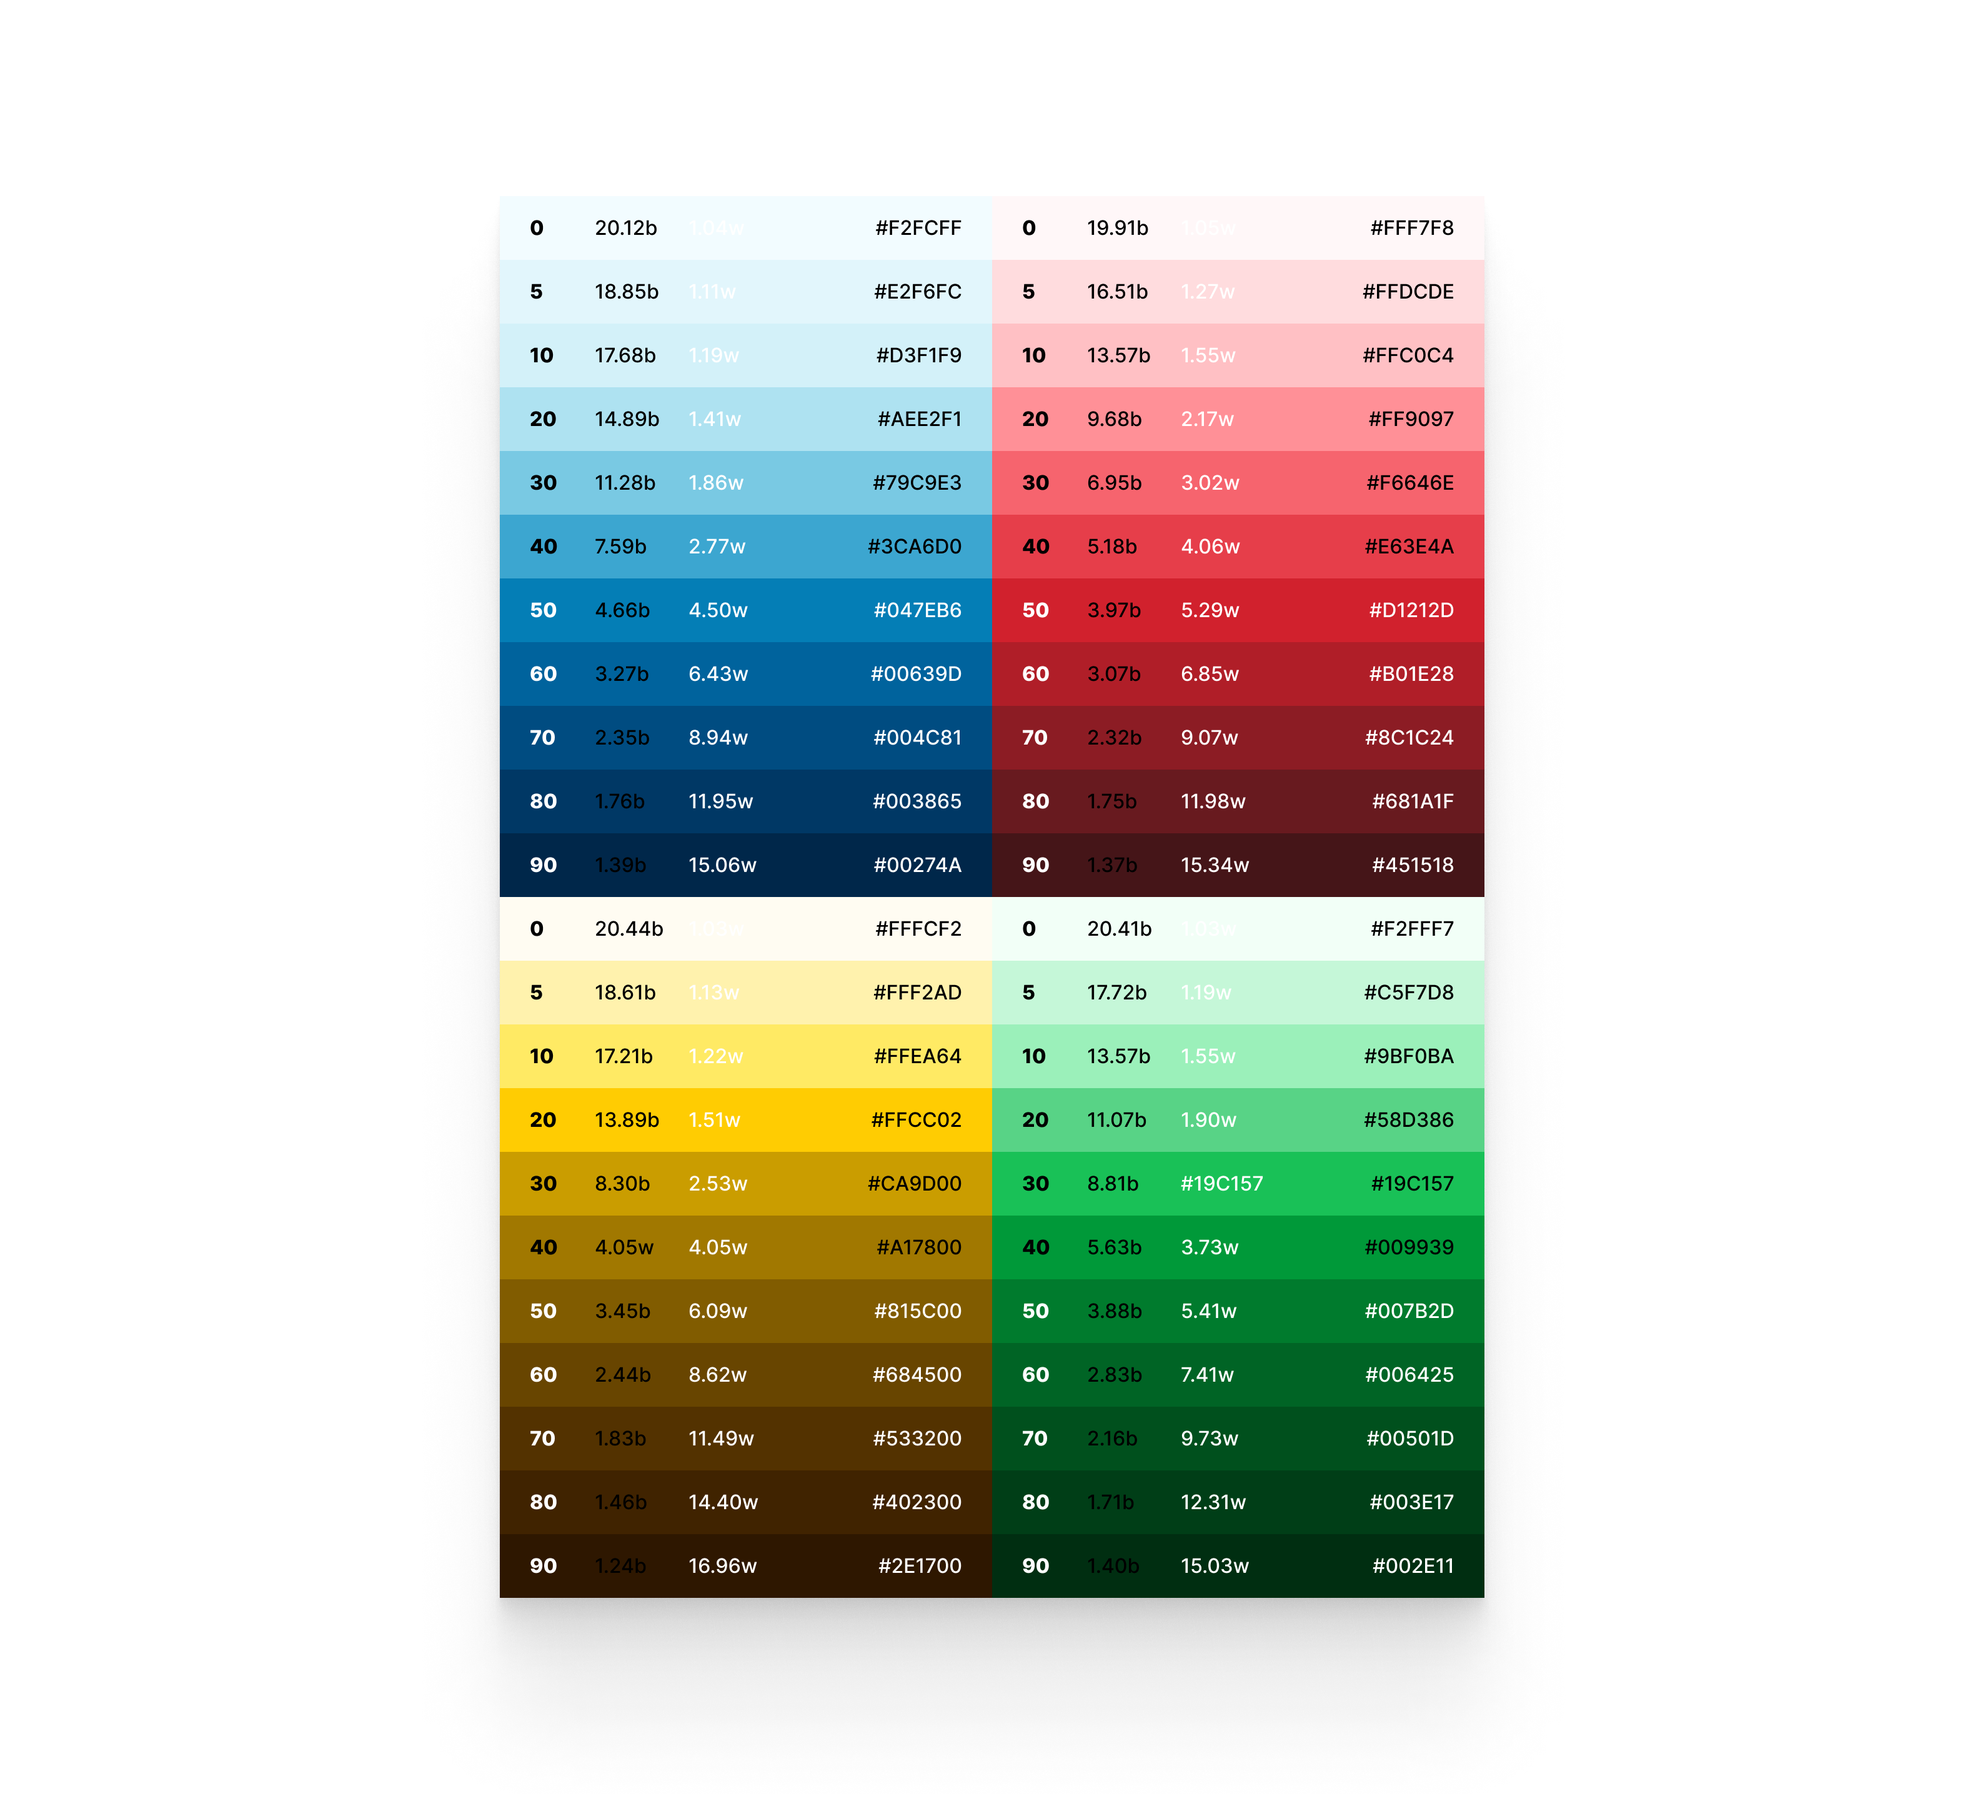
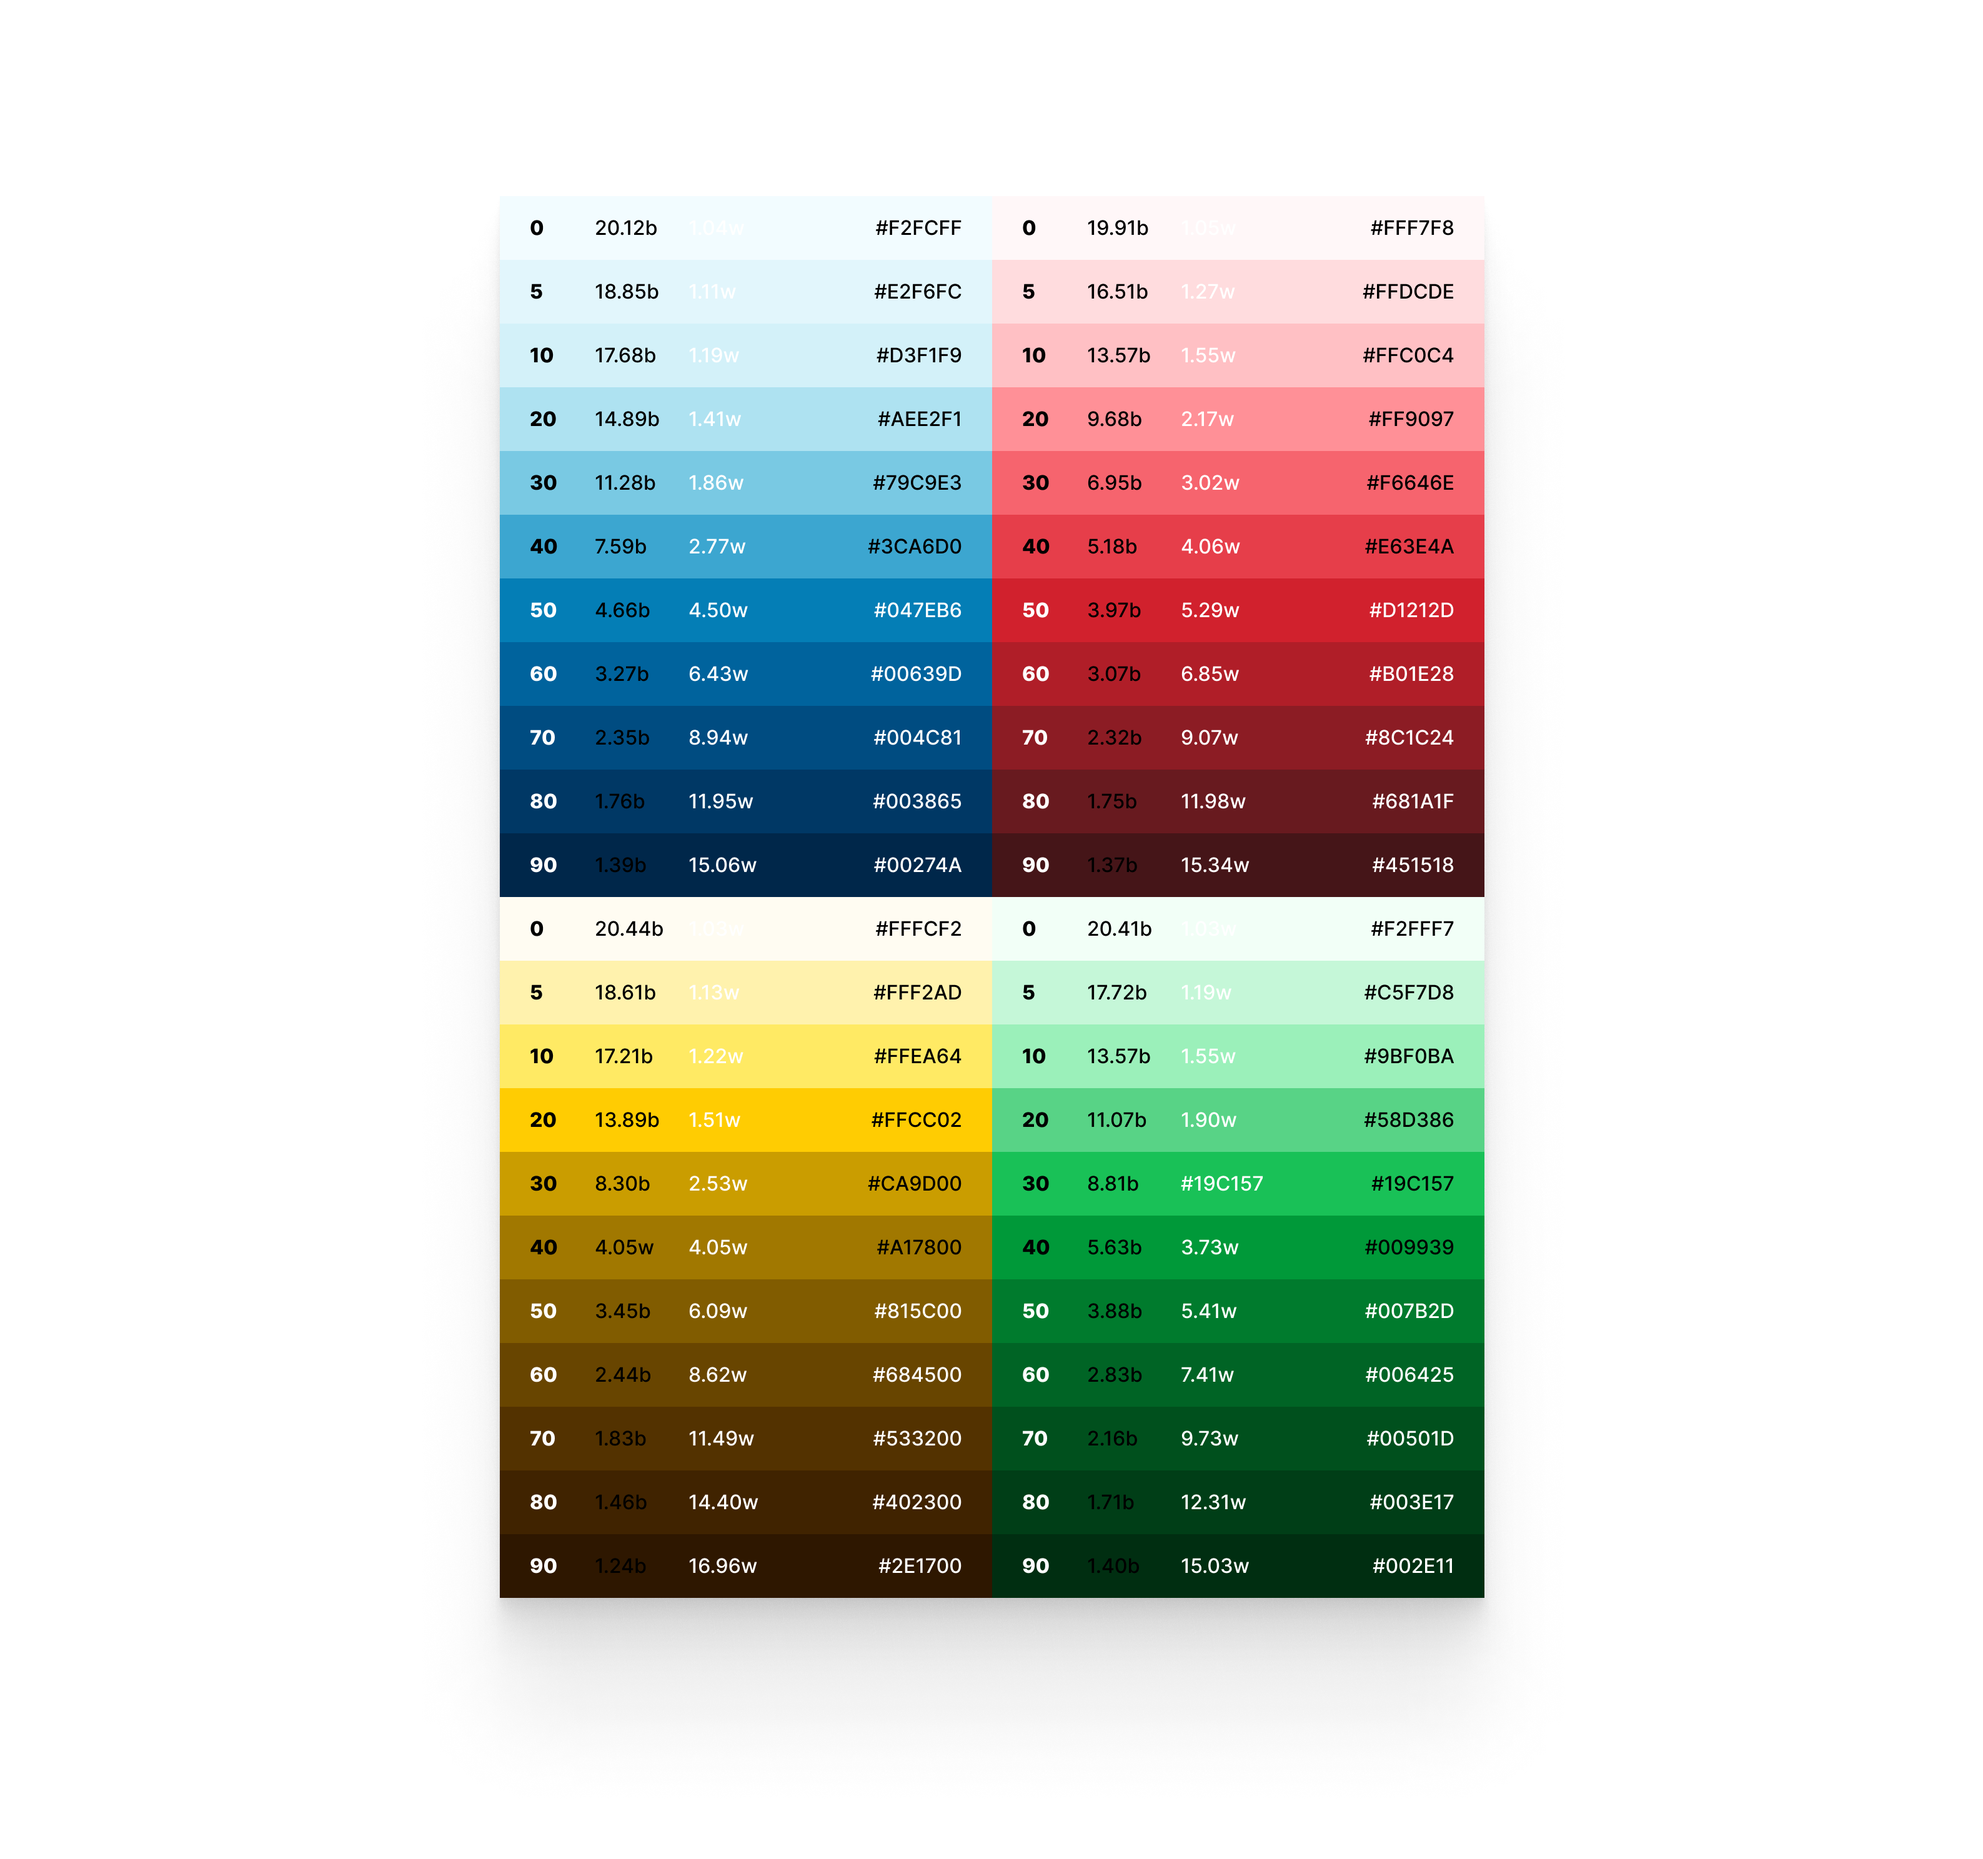
shorten description and fix typo, swap palette img

Changed region(s): [[0.2495, 0.124, 0.7486, 0.8987]]

diff --git a/content/projects/soberlink-ui.md b/content/projects/soberlink-ui.md
@@ -3,7 +3,7 @@
 title: Soberlink UI
 company: Soberlink
 website: no
-description: A small design system built from the ground up to power the future products of Soberilnk.
+description: A small design system built to power the future products of Soberlink
 role: Product Design, Frontend Development
 thumbnail: null
 hero: /sui-img/sui-hero.png
@@ -14,7 +14,7 @@ casestudy: yes
 order: 1.1
 ---
 
-Before I dove into my first project at Soberlink, the Identity Management project, I began work on a small design system to help future me manage styles and components across projects. The goal was to start in Figma, and then extend to a front-end component library in Vue powered by Storybook.
+Before I dove into my first project at Soberlink, the [Identity Management](https://id.soberlink.com/) project, I began work on a small design system to help future me manage styles and components across projects. The goal was to start in Figma, and then extend to a front-end component library in Vue powered by Storybook.
 
 Soberlink had no real consumer-facing digital products outside of the barebone apps, so it was time to establish how future products might look and feel going forward. The end-users of our digital products are healthcare providers, lawyers, and clients, so the look and feel of the interface had to look trustworthy and professional. I started with the typography and color palette to complement our branding and marketing style.
 
@@ -24,15 +24,14 @@ Soberlink had no real consumer-facing digital products outside of the barebone a
 
 I went with Adelle Sans for its great legibility at smaller sizes and its range of weights. It had just the amount of extra personality in a sans we wanted (although the fantastic Inter was a close runner up as a more neutral option), and it complemented the logotype’s Eurostyle font well.
 
-For the color system, I started with a base color of `#047EB6`, a value close the blue in our logo that has a passing AA Large contrast with white text. This is what would become the `blue-50` of the pallet. I then leveraged Colorbox to help build out the other hues and values for the system. For the colors outside of the grays, I set the `50` levels to be able to have white text over them with AA Large contrast. That way it was easier to pair font colors with background colors without having to measure contrast every time.
+For the color system, I started with a base color of `#047EB6`, a value close the blue in our logo that has a passing AA Large contrast with white text. This is what would become the `blue-50` of the pallet. I then leveraged [Colorbox](https://colorbox.io/) to help build out the other hues and values for the system. For the colors outside of the grays, I set the `50` levels to be able to have white text over them with AA Large contrast. That way it was easier to pair font colors with background colors without having to measure contrast every time.
 <br /><br />
 ![blue pallet with logo](/sui-img/sui-blue.png)
 <br />
 
 For the neutrals, I went with a slightly cooler hue to match our blue accent color. The neutral palette has 1 more shade than the other colors because I often find I need a larger range of grays for background, border, and text colors. The easing of the neutral shades moves much faster through the middle tones, which gives me smaller steps of the lighter and darker ends to work with for subtle contrast between elements. I still think the yellow shades need some love, by far the most difficult color to work with.
 <br /><br />
-![neutral color scale](/sui-img/palette-neutral.png)
-![color pallet](/sui-img/palette-1.png)
+![color pallet](/sui-img/palette-2.png)
 <br />
 
 Since I didn’t know what components I was going to need for my first project, I started with some primitive ones. This established some of the styling upfront and gave me a little to build from. The plan after that was to expand upon and add to the component library as needed while designing the products. The almighty button component came first, followed by inputs.
